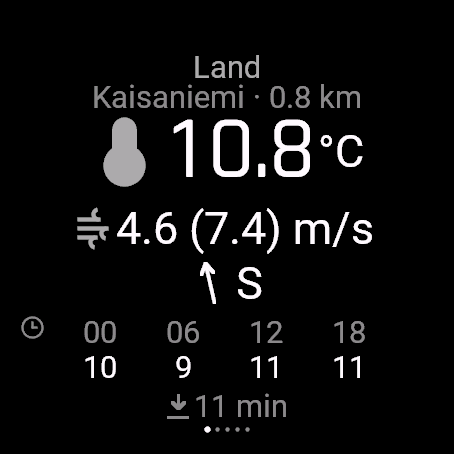
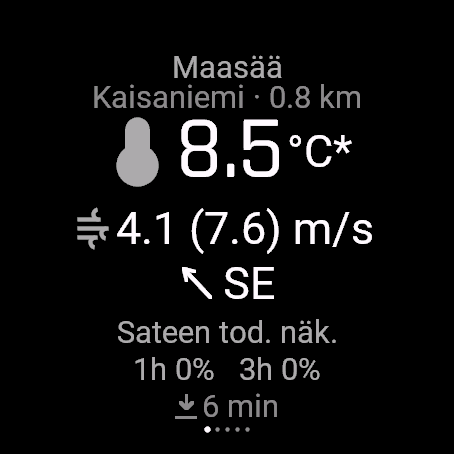
App site: v1.2.1 screenshots for Land, Forecast and Glance (Finnish, from real hardware)
Store/tallimedia.com screenshots stay English-language; these are the
Finnish v1.2.1 captures dumped today, used as a stopgap until an
English-locale sim dump replaces them. Sea, Waves and About are
unchanged this release.

diff --git a/app/public/index.html b/app/public/index.html
@@ -298,7 +298,7 @@
         <span id="app-devices"></span></p>
     </div>
     <figure style="margin:0">
-      <img src="/public/shots/pg-fc.png?v=2" alt="FIWeatherWatch forecast page on a Garmin fenix"
+      <img src="/public/shots/pg-fc.png?v=3" alt="FIWeatherWatch forecast page on a Garmin fenix"
            style="width:100%;max-width:340px;display:block;margin:0 auto">
     </figure>
   </div>
@@ -354,15 +354,15 @@
       <span style="flex:1;height:1px;background:color-mix(in srgb,#f5f8fd 26%,transparent)"></span>
     </div>
     <div style="display:grid;grid-template-columns:repeat(auto-fit,minmax(160px,1fr));gap:24px">
-      <figure style="margin:0"><div class="shot-disc"><img src="/public/shots/raw-pg1.png?v=2" alt="Land page"></div>
+      <figure style="margin:0"><div class="shot-disc"><img src="/public/shots/raw-pg1.png?v=3" alt="Land page"></div>
         <figcaption class="shot-cap" id="cap-land"></figcaption></figure>
-      <figure style="margin:0"><div class="shot-disc"><img src="/public/shots/raw-pg-fc.png?v=1" alt="Forecast page"></div>
+      <figure style="margin:0"><div class="shot-disc"><img src="/public/shots/raw-pg-fc.png?v=2" alt="Forecast page"></div>
         <figcaption class="shot-cap" id="cap-forecast"></figcaption></figure>
       <figure style="margin:0"><div class="shot-disc"><img src="/public/shots/raw-pg2.png?v=2" alt="Sea page with a live wind warning"></div>
         <figcaption class="shot-cap" id="cap-sea"></figcaption></figure>
       <figure style="margin:0"><div class="shot-disc"><img src="/public/shots/raw-pg3.png?v=2" alt="Waves page with a live wave warning"></div>
         <figcaption class="shot-cap" id="cap-waves"></figcaption></figure>
-      <figure style="margin:0"><div class="shot-disc"><img src="/public/shots/raw-glance.png?v=1" alt="Glance"></div>
+      <figure style="margin:0"><div class="shot-disc"><img src="/public/shots/raw-glance.png?v=2" alt="Glance"></div>
         <figcaption class="shot-cap" id="cap-glance"></figcaption></figure>
       <figure style="margin:0"><div class="shot-disc"><img src="/public/shots/raw-pg-about.png?v=2" alt="About page"></div>
         <figcaption class="shot-cap" id="cap-about"></figcaption></figure>
